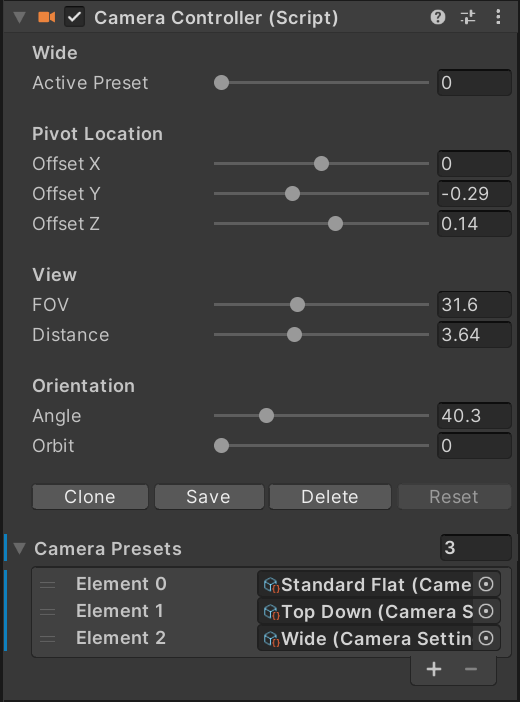
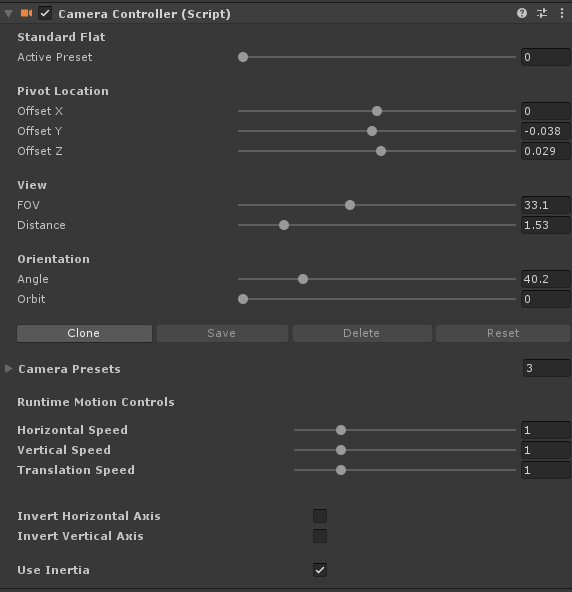
Documentation: Updated camera settings document.
Expanded and updated camera controller documentation.

diff --git a/VisualPinball.Unity/Documentation~/creators-guide/editor/advanced/camera-settings.md b/VisualPinball.Unity/Documentation~/creators-guide/editor/advanced/camera-settings.md
@@ -1,32 +1,68 @@
+
+
 ---
 description: VPE allows to quickly cycle through different camera settings while editing the table.
 ---
-# Camera Settings
 
-The editor camera controller is a tool designed to set different camera views during the editing and testing process. It allows the camera to be easily adjusted with a few sliders as well as allowing for the saving and loading of presets.
+# Editor Camera
 
-The camera controller is setup to orbit around a focal point. While doing this it will automatically adjust the clipping planes on the camera to ensure the best quality shadows and highest precision sorting of transparent objects.
+The Editor Camera is a POV Camera for viewing the table in Unity's game view.  
 
-> [!note]
-> In most 3D engines, a depth buffer us used for many rendering features such as shadows, transparency sorting and various post process effects. This buffer is a greyscale representation of the distance of a pixel from the camera.
-> As such, it has a limited value range that must be spread to cover the entire scene. The larger the range, the less precision the buffer will have. By closely cropping the range, the precision can be increased. In using the camera controller this is handled automatically. If you add your own camera you will have to adjust this manually.
+The Game view in Unity is an analog to the built application when doing standard Unity development. For VPE, this view serves as a preview window if the final rendering of the table and is the runtime view when playing tables in the editor.  Control of the camera is done using the Camera Controller component on the Editor Camera object. 
 
-## Usage
+**Basic Adjustment**
+The camera orbits around a pivot point that can be translated around the table using the offset values.  The offsets are relative to the active table center.  The angle, orbit and distance values control the camera position.  Below is a table of the parameters.
 
 <img src="camera-settings.png" width="364" class="img-responsive pull-right" style="margin-left: 15px">
 
-To use the camera controller, select the `Camera` scene object, which is at the very top of the hierarchy. In the inspector you will find a few sliders:
+|Property| Description |
+|--|--|
+| Active Preset | The currently active preset from the presets of available camera settings.  Three are provided as defaults and any number can  stored for future use.  These presets are saved with the project and will carry over from table to table.  |
+|Offset X| Offsets the pivot on the X axis, left and right as you are looking at the table.|
+|Offset Y| Offsets the pivot in the Y axis, up from the table surface. |
+|Offset Z| Offsets the pivot forward and back along the Z axis.|
+|FOV| Adjusts the camera field of view.  Lower values reduce perspective and flatten features where as higher values increase the sense of depth.|
+|Distance| Moves the camera closer to or further away from the table along its view axis.|
+|Angle| Raises or lowers the camera angle relative to the plane of the table. An eln of Zero is parallel with the table, a value of 90 is perpendicular to the playfield.|
+|Orbit| Orbit rotates the camera around the pivot point, moving left and right talkative to a players normal view.|
 
-- **Angle**: Controls the angle of the camera to the table. A value of zero places the camera parallel to the table. A value of 90 places the camera perpendicular to the table.
-- **Offset XYZ**: Moves the pivot point of the camera along the three world axis. X moves the camera left and right relative to where a player would stand. V moves it up and down and Z moves it forward and back. *Angle*, *Distance* and *Orbit* are always relative to this point.
-- **Distance**: Moves the camera closer to or further away from the pivot point. This is used in conjunction with the FOV to frame the table in view.
-- **FOV**: Sets the field of view of the camera. High values result in a wide field of view and more depth perspective. Low values narrow and flatten the view.
-  > [!note]
-  > Adjusting the distance and FOV together will control how much apparent depth there is to tge table. A wide field of view and low distance will give the table a lit of perspective and depth, but will be more challenging to fit in the view without clipping the front, or having a lot of space to the sides in the back. Conversely, moving the camera further away and lowering the FOV will remove much of the perspective allowing the table to fit more evenly in the frame.
-- **Orbit**: Controls the camera angle in an orbit around the table. 0 and 360 are standing in front of the table, 90 is on the left, 270 to the right.
+**Camera Presets**
+The camera controller provides the ability to create and quickly change between camera views.  This is used for quickly cycling to a specific view or element during the creation process.
 
-## Presets
+|Property | Description |
+|--|--|
+|Clone| Creates a clone of the existing preset. Used to start with one for adjustment without losing the existing.  The new clone will be added after the last value in the preset list.|
+|Save| Saves the current settings to the current active preset. | 
+|Delete| Deletes the currently active preset. |
+|Reset | Resets the current settings to the settings from the saved active preset.|
+|Horizontal Speed| Controls the speed of the horizontal mouse axis when rotating at runtime.|
+|Vertical Speed | Controls the speed of the vertical mouse axis when rotating at runtime. | 
+|Translation speed| Controls the speed when translating the pivot point at runtime.|
+|Invert Horizontal Axis| Inverts the orbiting direction.|
+|Invert Vertical Axis| Inverts the elevation changes.|
+|Use Inertia| When true, dragging imparts a bit of momentum to the camera resulting an ease out behavior.|
 
-Camera presets are stored camera settings that allow you to rapidly switch between different camera views. This can be useful when developing a table to view specific areas or just to take pretty screenshots.
 
-The preset slider changes between the stored camera views. There are three views included by default. Any preset can be overwritten by changing the parameters and clicking the *Save* button. If *Save* is not pressed, the values will be lost when you cycle to a new preset. New presets can be made by adjusting the values and clicking *Clone*. This preset will be added to the presets at the end. You can delete any preset by setting the slider to that preset and clicking the *Delete* button.
+The camera controller was added as a utility that allows easy access to the most common features necessary for table development.  However, any camera controller can be made or added.  If you choose to use another camera controller it is recommended that you duplicate the camera that is under the Editor Camera object hierarchy.  It has been configured to match the VPE rendering setup and has a Camera clip plane component that controls the near and far clipping planes which is necessary to prevent various artifacts. 
+
+> [!note]
+> In most 3D engines, a depth buffer is used for many rendering features such as shadows, transparency sorting and various post process effects. This buffer is a greyscale representation of the distance of a pixel from the camera.
+> As such, it has a limited value range that must be spread to cover the entire scene. The larger the range, the less precision the buffer will have. By closely cropping the range, the precision can be increased.
+
+
+ **Runtime Controls**
+During play mode, the camera controller allows you to adjust the view using the mouse in the game view.  
+
+To control the camera the default controls are:
+
+|Default Key| Action |
+|--|--|
+| Left Mouse Orbit + Vertical axis | Adjusts the camera elevation.|
+|Left Mouse Button + Horizontal axis| Adjusts the camera orbit.|
+|Right Mouse Button + Vertical axis| Adjusts the pivot Offset forward and back.|
+|Right Mouse Button + Horizontal axis| Adjusts the pivot Offset left and right.|
+|Mouse Scroll Wheel| Adjusts the camera distance.|
+|Control + Mouse scroll wheel| Adjusts the camera FOV.|
+
+Control configuration can be changed by editing the VPE default key bindings.
+
